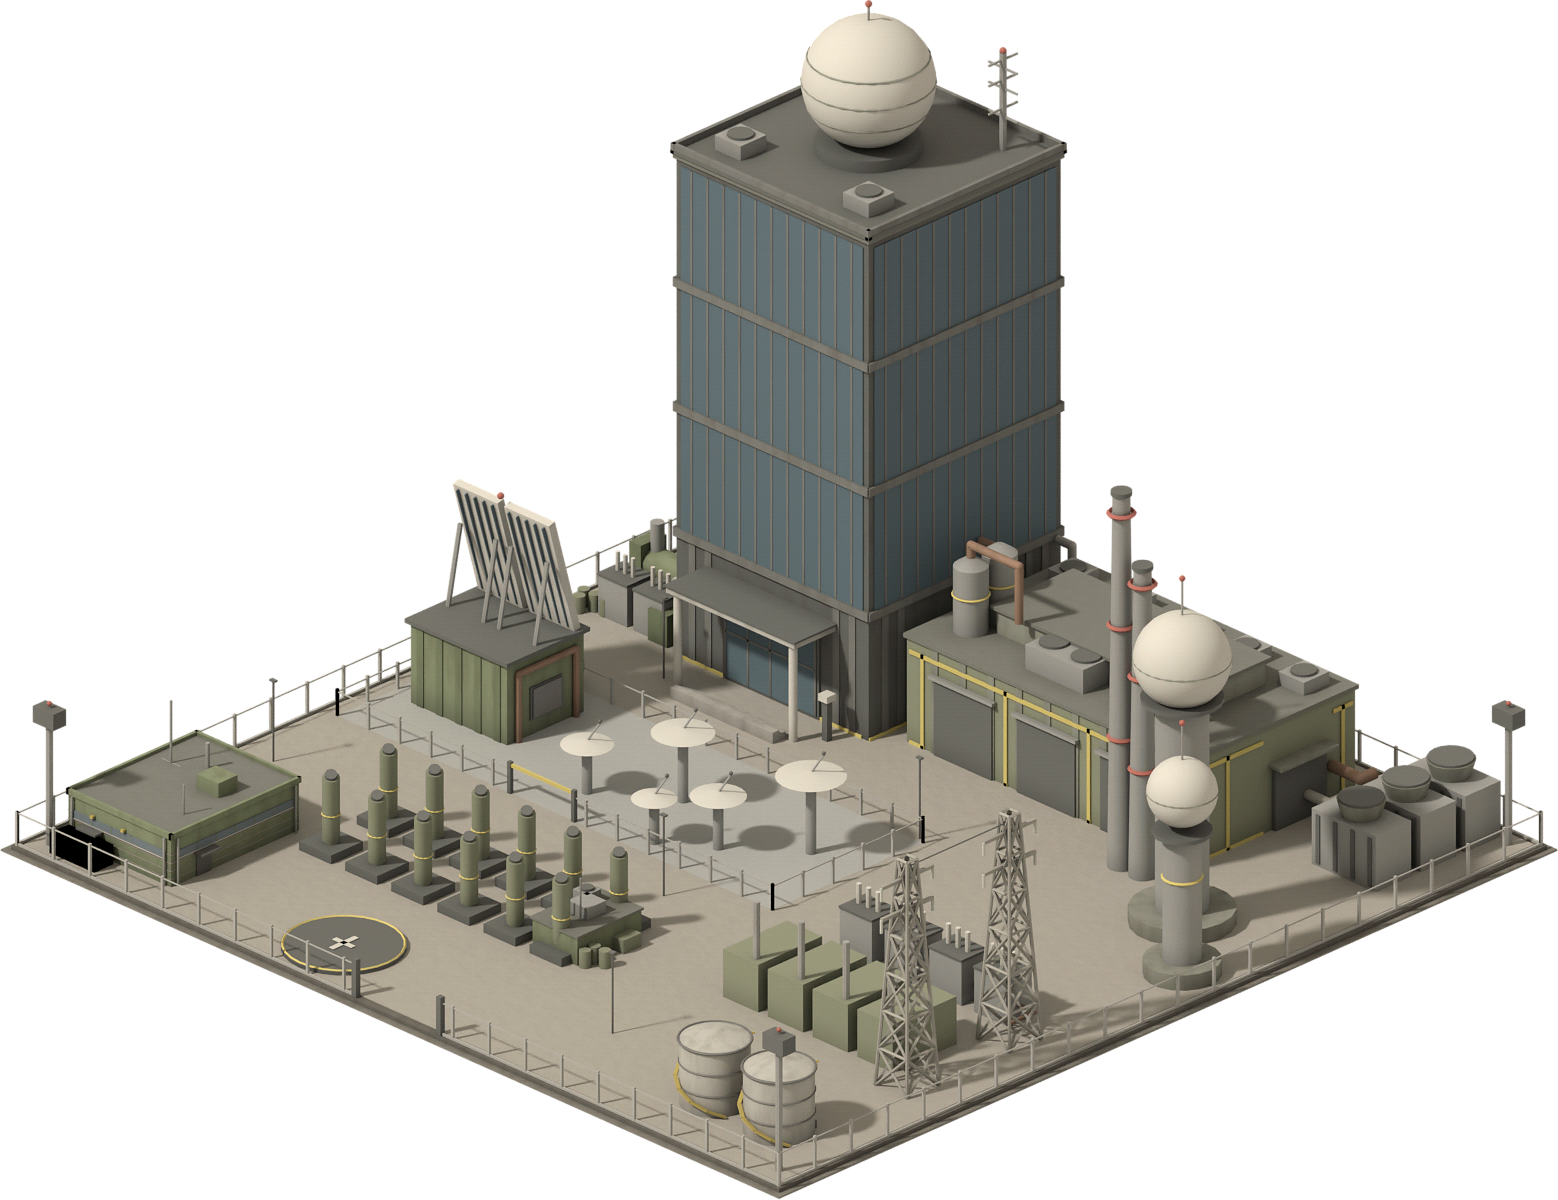
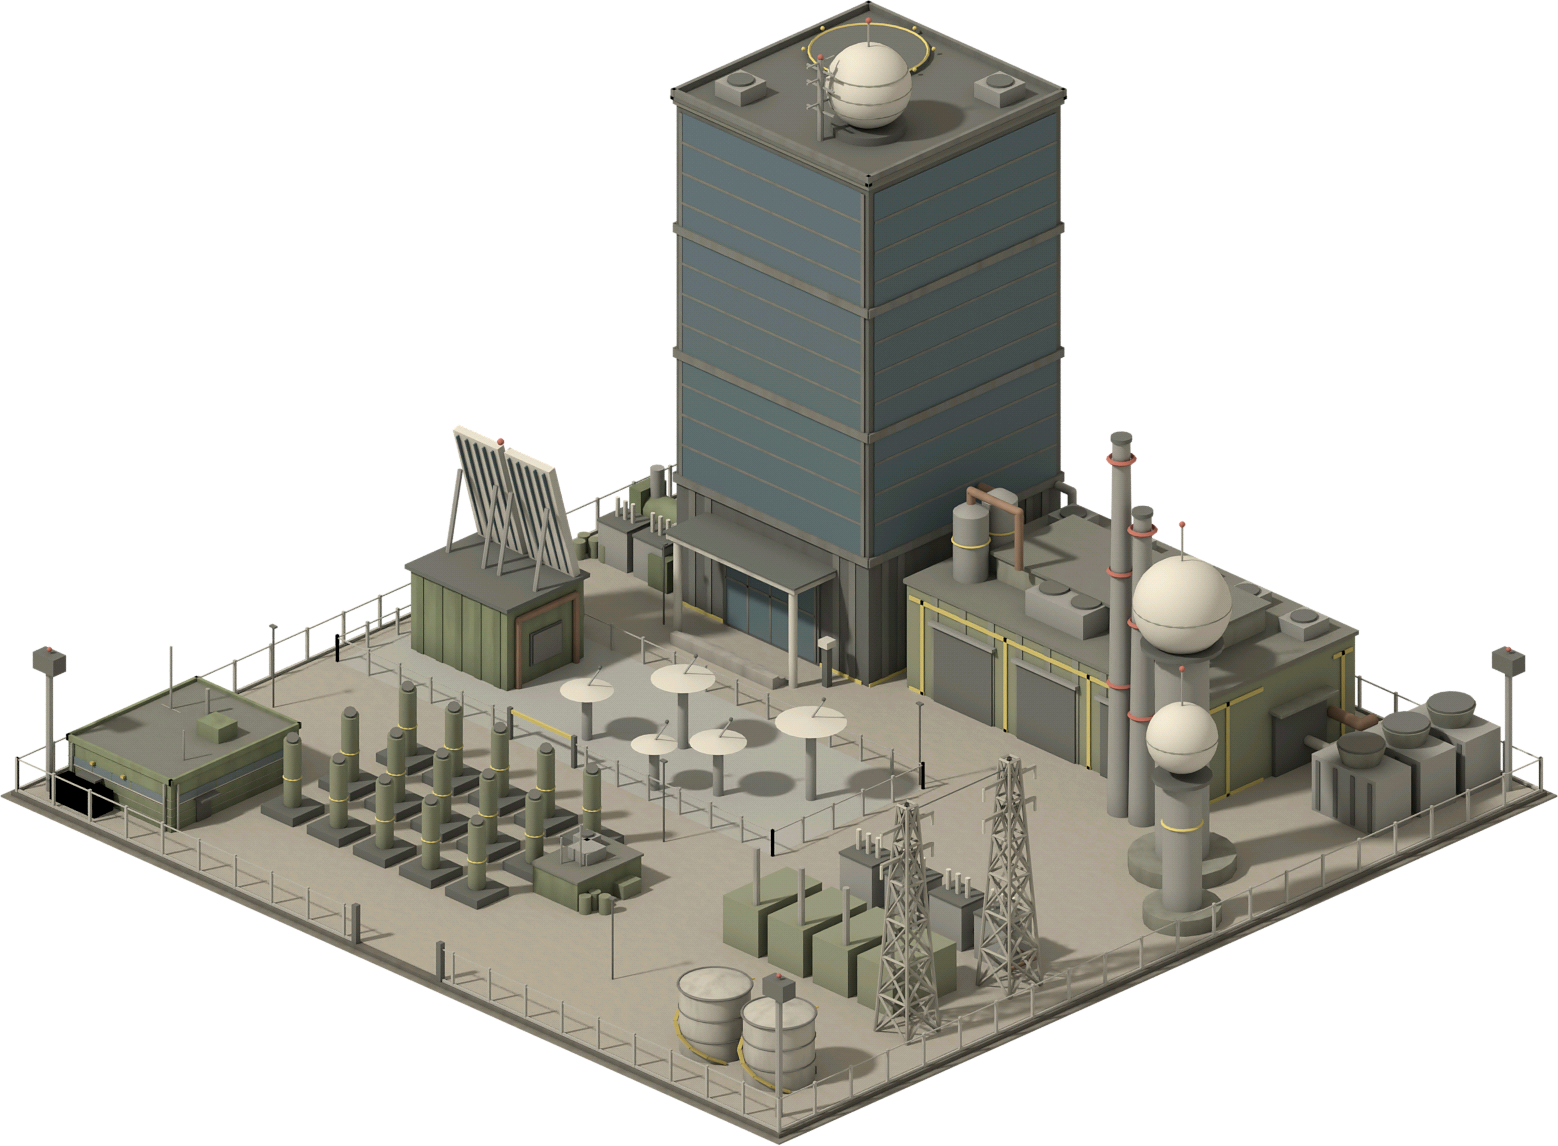
AI防衛システム工場：ガラスを横の帯に、小さなレドームを隅へ・屋上にヘリパッド、ミサイル発射筒を3列に
Claude-Session: https://claude.ai/code/session_018rzwRr8JkDqqPcQLfX2TTK

Changed region(s): [[0.0, 0.0, 1.0, 1.0]]

diff --git a/data/sprites_bl.js b/data/sprites_bl.js
@@ -3206,18 +3206,18 @@ window.GAME_DATA.spritesBL = {
    {
     "file": "../assets/bl/aiDefenseFactory_r0.png",
     "w": 779.0,
-    "h": 600.0,
+    "h": 573.0,
     "ax": 389.5,
-    "ay": 422.6,
+    "ay": 395.6,
     "fw": 12,
     "fd": 12
    },
    {
     "file": "../assets/bl/aiDefenseFactory_r1.png",
     "w": 779.0,
-    "h": 486.0,
+    "h": 467.5,
     "ax": 389.5,
-    "ay": 308.6,
+    "ay": 290.1,
     "fw": 12,
     "fd": 12
    },
@@ -3233,9 +3233,9 @@ window.GAME_DATA.spritesBL = {
    {
     "file": "../assets/bl/aiDefenseFactory_r3.png",
     "w": 779.0,
-    "h": 532.5,
+    "h": 507.5,
     "ax": 389.5,
-    "ay": 355.1,
+    "ay": 330.1,
     "fw": 12,
     "fd": 12
    }
